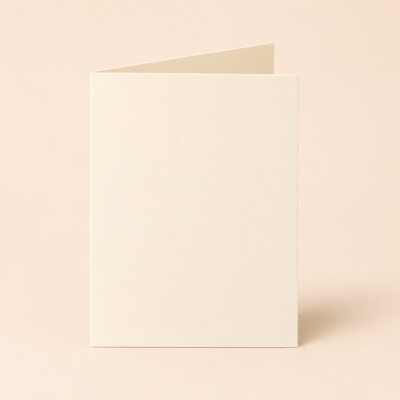
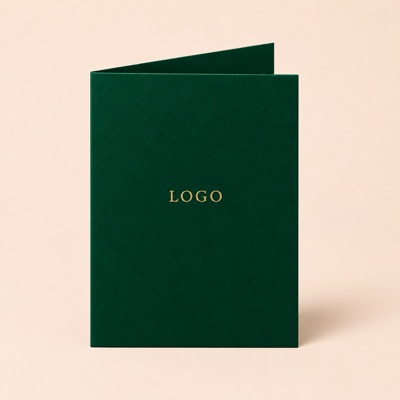
Clarify custom accessory options and add branded examples

diff --git a/components/ProductAccessories.tsx b/components/ProductAccessories.tsx
@@ -12,5 +12,5 @@ function useEnquiry(){const value=useContext(EnquiryContext);if(!value)throw new
 export function ProductEnquiryLink({children}:{children:ReactNode}){const {href}=useEnquiry();return <a className="button" href={href}>{children}</a>;}
 export default function ProductAccessories({zh=false}:{zh?:boolean}){
  const {chosen,setChosen}=useEnquiry();
- return <section className="product-accessories"><h2>{zh?'配成一套，更方便采购':'Complete your packaging set'}</h2><p>{zh?'配件均可定制、自由选配，数量及费用单独确认。内装产品用于展示适配，不随包装提供；图中配件也非默认包含。配件图片为 AI 生成的示意图，颜色、尺寸及工艺以确认样品为准。':'Choose optional custom accessories. Quantities and costs are confirmed separately. Contents demonstrate product fit and are not supplied; pictured accessories are not automatically included. Accessory images are AI-generated illustrations; confirm colors, sizes and finishes on the approved sample.'}</p><div>{options.map(([id,en,cn])=><label key={id}><img src={`/accessories/${id}.jpg`} alt={zh?`${cn}示意图`:`${en} illustration`} aria-hidden="true" width="96" height="96" loading="lazy"/><input type="checkbox" checked={chosen.includes(id)} onChange={()=>setChosen(previous=>previous.includes(id)?previous.filter(x=>x!==id):[...previous,id])}/><strong>{zh?cn:en}</strong></label>)}</div><ProductEnquiryLink>{zh?'询价所选包装与配件 →':'Enquire about this packaging set →'}</ProductEnquiryLink></section>
+ return <section className="product-accessories"><h2>{zh?'配成一套，更方便采购':'Complete your packaging set'}</h2><p>{zh?'配件均可定制、自由选配，数量及费用单独确认。内装产品用于展示适配，不随包装提供；图中配件也非默认包含。图片为 AI 生成的定制示意，颜色、图案、客户 Logo 和尺寸可按要求定制，最终以确认样品为准。':'Choose optional custom accessories. Quantities and costs are confirmed separately. Contents demonstrate product fit and are not supplied; pictured accessories are not automatically included. AI-generated examples show illustrative colors and logos. Colors, patterns, your logo and sizes can be customized to your requirements and confirmed with a physical sample.'}</p><div>{options.map(([id,en,cn])=><label key={id}><img src={`/accessories/${id}.jpg`} alt={zh?`${cn}示意图`:`${en} illustration`} aria-hidden="true" width="96" height="96" loading="lazy"/><input type="checkbox" checked={chosen.includes(id)} onChange={()=>setChosen(previous=>previous.includes(id)?previous.filter(x=>x!==id):[...previous,id])}/><strong>{zh?cn:en}</strong></label>)}</div><ProductEnquiryLink>{zh?'询价所选包装与配件 →':'Enquire about this packaging set →'}</ProductEnquiryLink></section>
 }
